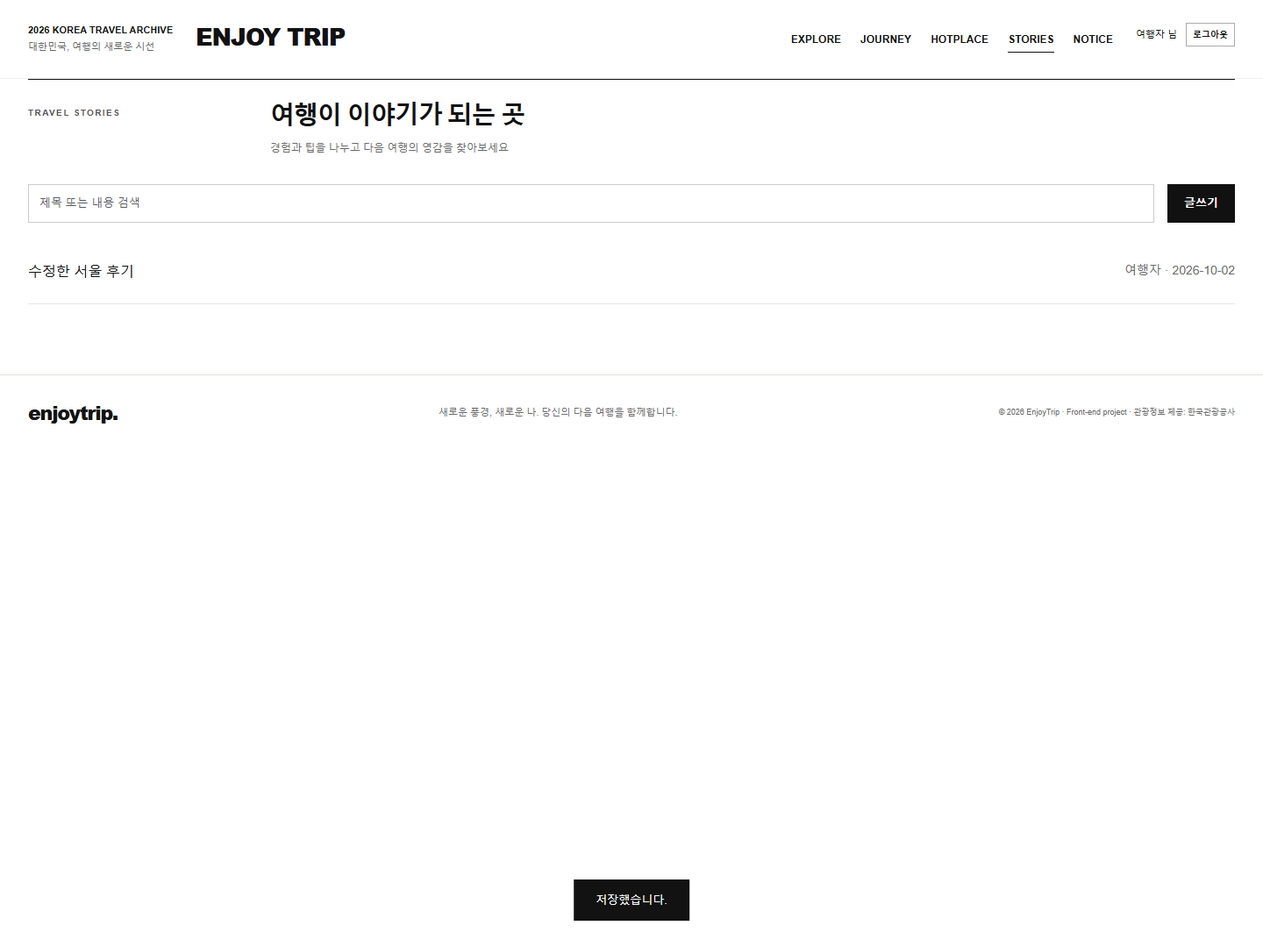
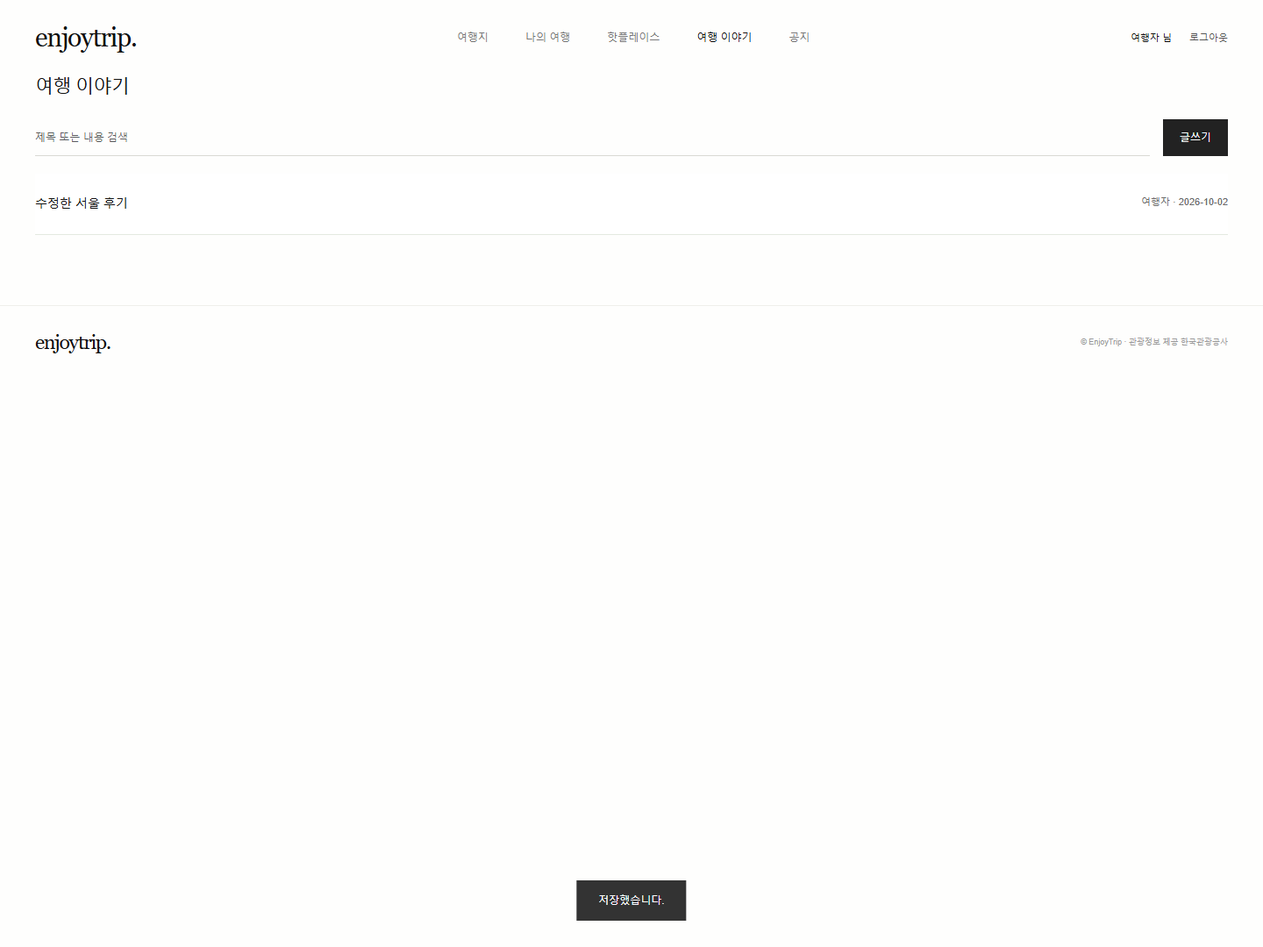
design: simplify travel interface and verify automatic deployment

diff --git a/js/main.js b/js/main.js
@@ -22,7 +22,7 @@ $('#region').innerHTML='<option value="">전국</option>'+regions.map(r=>`<optio
 let districtRequest=0;$('#region').onchange=async()=>{const id=++districtRequest;$('#district').innerHTML='<option value="">전체</option>';if(!$('#region').value)return;try{const result=await tourAPI('ldongCode2',{lDongRegnCd:$('#region').value,lDongListYn:'N',numOfRows:100});if(id!==districtRequest)return;$('#district').innerHTML+=result.items.map(r=>`<option value="${esc(r.code||r.lDongSignguCd)}">${esc(r.name||r.lDongSignguNm)}</option>`).join('')}catch{}};
 
 function typeName(s){return categories.find(c=>String(c[0])===String(s.contenttypeid))?.[1]||'여행지'}
-function renderSpots(){ $('#result-count').textContent=`발견한 장소 ${total}곳`;$('#spots').innerHTML=spots.length?spots.map((s,i)=>`<article class="spot-card">${s.firstimage?`<img class="spot-art" src="${esc(s.firstimage)}" alt="${esc(s.title)}" loading="lazy" referrerpolicy="no-referrer">`:'<div class="spot-art" aria-hidden="true">⌁</div>'}<div class="spot-copy"><span class="badge-type">${typeName(s)}</span><h3>${esc(s.title)}</h3><p>${esc(s.addr1||'주소 정보 없음')}</p><button class="btn btn-outline-secondary" data-detail="${i}">상세보기</button> <button class="btn btn-primary" data-add="${i}">여행에 추가 +</button></div></article>`).join(''):empty('검색 결과가 없습니다. 다른 지역이나 검색어를 선택해 보세요.');$('#more').hidden=!live||spots.length>=total;$('#spots').querySelectorAll('[data-detail]').forEach(b=>b.onclick=()=>detail(spots[b.dataset.detail]));$('#spots').querySelectorAll('[data-add]').forEach(b=>b.onclick=()=>addRoute(spots[b.dataset.add]));if(map)updateMap(spots.map(s=>({...s,x:Number(s.mapx),y:Number(s.mapy),label:s.title,address:s.addr1})));$('#spots').querySelectorAll('img').forEach(img=>img.onerror=()=>{img.removeAttribute('src');img.alt='사진 준비 중'})}
+function renderSpots(){ $('#result-count').textContent=`발견한 장소 ${total}곳`;$('#spots').innerHTML=spots.length?spots.map((s,i)=>`<article class="spot-card">${s.firstimage?`<img class="spot-art" src="${esc(s.firstimage)}" alt="${esc(s.title)}" loading="lazy" referrerpolicy="no-referrer">`:`<div class="spot-index" aria-hidden="true">${String(i+1).padStart(2,'0')}</div>`}<div class="spot-copy"><span class="badge-type">${typeName(s)}</span><h3>${esc(s.title)}</h3><p>${esc(s.addr1||'주소 정보 없음')}</p><button class="btn btn-outline-secondary" data-detail="${i}">상세보기</button> <button class="btn btn-primary" data-add="${i}">여행에 추가</button></div></article>`).join(''):empty('검색 결과가 없습니다. 다른 지역이나 검색어를 선택해 보세요.');$('#more').hidden=!live||spots.length>=total;$('#spots').querySelectorAll('[data-detail]').forEach(b=>b.onclick=()=>detail(spots[b.dataset.detail]));$('#spots').querySelectorAll('[data-add]').forEach(b=>b.onclick=()=>addRoute(spots[b.dataset.add]));if(map)updateMap(spots.map(s=>({...s,x:Number(s.mapx),y:Number(s.mapy),label:s.title,address:s.addr1})));$('#spots').querySelectorAll('img').forEach(img=>img.onerror=()=>{img.removeAttribute('src');img.alt='사진 준비 중'})}
 async function search(append=false,near=null){const id=++request;$('#data-status').textContent='관광정보를 불러오고 있습니다…';const buttons=$('#search').querySelectorAll('button');buttons.forEach(b=>b.disabled=true);$('#more').disabled=true;if(!append)page=1;const region=$('#region').value,category=$('#category').value,keyword=$('#keyword').value.trim();let params={pageNo:page};if(region)params.lDongRegnCd=region;if($('#district').value)params.lDongSignguCd=$('#district').value;if(category)params.contentTypeId=category;let method='areaBasedList2';if(keyword){method='searchKeyword2';params.keyword=keyword}if(near){method='locationBasedList2';params={pageNo:1,mapX:near.lng,mapY:near.lat,radius:2000,...(category?{contentTypeId:category}:{})}}
 try{const result=await tourAPI(method,params);if(id!==request)return;spots=append?[...spots,...result.items]:result.items;total=result.total;live=true;$('#data-status').textContent='한국관광공사 실시간 관광정보'}catch(err){if(id!==request)return;live=false;spots=samples.filter(s=>(!region||s.region===region)&&(!category||s.contenttypeid===category)&&(!keyword||s.title.includes(keyword)||s.addr1.includes(keyword)));if(near){spots=spots.filter(s=>{const dy=(s.mapy-near.lat)*111,dx=(s.mapx-near.lng)*111*Math.cos(near.lat*Math.PI/180);return Math.hypot(dx,dy)<=2})}if($('#district').value)spots=[];total=spots.length;$('#data-status').textContent='샘플 모드 · API 연결 실패, 실제 조회 결과가 아닙니다.'}finally{if(id===request){renderSpots();buttons.forEach(b=>b.disabled=false);$('#more').disabled=false}}}
 $('#search').onsubmit=e=>{e.preventDefault();search()};$('#more').onclick=()=>{page++;search(true)};$('#nearby').onclick=()=>{if(!navigator.geolocation)return toast('이 브라우저는 위치 조회를 지원하지 않습니다.');navigator.geolocation.getCurrentPosition(p=>search(false,{lat:p.coords.latitude,lng:p.coords.longitude}),()=>toast('위치 권한을 허용해 주세요. 지역 검색은 계속 이용할 수 있습니다.'),{timeout:10000})};
@@ -38,8 +38,8 @@ function renderPosts(notice=false){const key=notice?'notices':'posts',target=not
 function postDetail(key,id){const p=read(key).find(p=>p.id===id);if(!p)return;modal(`<span class="eyebrow">${key==='notices'?'NOTICE':'TRAVEL STORY'}</span><h3 class="mt-3">${esc(p.title)}</h3><p>${esc(p.author)} · ${esc(p.date)}</p><div style="white-space:pre-wrap">${esc(p.body)}</div>${p.owner===current()?.id?'<div class="actions"><button id="edit-post" class="btn btn-primary">수정</button><button id="delete-post" class="btn btn-outline-danger">삭제</button></div>':''}`);if($('#edit-post')){$('#edit-post').onclick=()=>editPost(key,p);$('#delete-post').onclick=()=>{if(confirm('게시글을 삭제할까요?')){save(key,read(key).filter(x=>x.id!==id));$('#modal').close();renderPosts(key==='notices');toast('삭제했습니다.')}}}}
 function editPost(key,p=null){if(!requireUser())return;modal(`<h3>${key==='notices'?'공지사항':'여행 이야기'} ${p?'수정':'등록'}</h3>${key==='notices'?'<p>학습용으로 로그인한 회원 누구나 자신이 작성한 공지를 관리할 수 있습니다.</p>':''}<form id="post-form">${fields('title','제목','text',p?.title||'','maxlength="100"')}<label>내용<textarea name="body" class="form-control" required maxlength="5000" rows="8">${esc(p?.body||'')}</textarea></label><button class="btn btn-primary">저장하기</button></form>`);$('#post-form').onsubmit=e=>{e.preventDefault();try{const f=Object.fromEntries(new FormData(e.target));if(!f.title.trim()||!f.body.trim())throw Error('제목과 내용을 입력하세요.');const rows=read(key),post={...f,id:p?.id||crypto.randomUUID(),owner:current().id,author:current().name,date:new Date().toLocaleDateString('sv-SE')};save(key,p?rows.map(r=>r.id===p.id?post:r):[post,...rows]);$('#modal').close();renderPosts(key==='notices');toast('저장했습니다.')}catch(err){toast(err.message)}}}
 $('#post-add').onclick=()=>editPost('posts');$('#notice-add').onclick=()=>editPost('notices');$('#board-search').oninput=()=>renderPosts();
-const headings={explore:['EXPLORE KOREA','어디로 떠나볼까요?','지역과 취향으로 찾아보는 나의 다음 여행지'],plan:['MY JOURNEY','나만의 여행을 그려보세요','발견한 장소를 연결하고 설레는 하루를 계획하세요'],hotplace:['HIDDEN GEMS','우리만 아는 특별한 장소','여행자들이 직접 소개하는 숨은 보석'],board:['TRAVEL STORIES','여행이 이야기가 되는 곳','경험과 팁을 나누고 다음 여행의 영감을 찾아보세요'],notice:['NOTICE','EnjoyTrip 소식','새로운 여행 소식과 이용 안내'],profile:['MY ACCOUNT','내 정보 관리','나의 여행자 프로필을 확인하고 수정하세요']};
+const headings={explore:['EXPLORE KOREA','여행지','지역과 취향으로 찾아보는 나의 다음 여행지'],plan:['MY JOURNEY','나의 여행','발견한 장소를 연결하고 설레는 하루를 계획하세요'],hotplace:['HIDDEN GEMS','핫플레이스','여행자들이 직접 소개하는 숨은 보석'],board:['TRAVEL STORIES','여행 이야기','경험과 팁을 나누고 다음 여행의 영감을 찾아보세요'],notice:['NOTICE','공지사항','새로운 여행 소식과 이용 안내'],profile:['MY ACCOUNT','내 정보','나의 여행자 프로필을 확인하고 수정하세요']};
 function navigate(){const name=location.hash.slice(1) in headings?location.hash.slice(1):'explore';document.querySelectorAll('.view').forEach(v=>v.hidden=v.id!==name);document.querySelectorAll('nav a').forEach(a=>a.classList.toggle('active',a.hash==='#'+name));['#section-tag','#section-title','#section-desc'].forEach((s,i)=>$(s).textContent=headings[name][i]);$('.hero').hidden=name!=='explore';if(name==='plan'){renderRoute();renderPlans()}if(name==='hotplace')renderHot();if(name==='board')renderPosts();if(name==='notice')renderPosts(true);if(name==='profile')profile();if(name==='explore'&&map)setTimeout(()=>{map.relayout();renderSpots()},0)}
 window.onhashchange=navigate;account();navigate();search();
-loadKakaoMap().then(()=>{initMap('map');$('#map-status').textContent='카카오 지도 · 장소 선택 시 위치 확인';renderSpots()}).catch(()=>{$('#map').innerHTML='<div class="fallback"><span class="eyebrow">TRAVEL MAP</span><h3 class="mt-3">지도 연결을 기다리고 있어요</h3><p>카카오 API 키와 허용 도메인을 확인하세요.<br>장소 상세의 ‘카카오맵에서 보기’는 이용할 수 있습니다.</p></div>';$('#map-status').textContent='지도 SDK 연결 실패 · 목록과 여행계획은 이용 가능'});
+loadKakaoMap().then(()=>{initMap('map');$('#map-status').textContent='카카오 지도 · 장소 선택 시 위치 확인';renderSpots()}).catch(()=>{$('#map').innerHTML='<div class="fallback"><h3>지도를 연결해 주세요</h3><p>카카오 지도 키와 도메인 설정이 필요합니다.</p></div>';$('#map-status').textContent='장소 상세에서 카카오맵을 열 수 있습니다.'});
 window.addEventListener('unhandledrejection',e=>{toast(e.reason?.message||'요청 처리 중 문제가 발생했습니다.');e.preventDefault()});

diff --git a/css/style.css b/css/style.css
@@ -2,3 +2,5 @@
 /* Editorial direction inspired by the KUAD 2026 reference. */
 :root{--ink:#121212;--green:#111;--paper:#fff;--muted:#696969}body{background:#fff;color:#111;font-family:Arial,'Malgun Gothic',sans-serif}header{max-width:none;padding:25px 32px;gap:26px;min-height:90px;border-bottom:1px solid #eee;align-items:flex-start}.site-caption{font-size:11px;font-weight:700;line-height:1.7;white-space:nowrap}.site-caption span{font-weight:400;color:#666}.brand{font-size:27px;letter-spacing:-1.1px;line-height:1.2}.brand span{color:#111}nav{margin-left:auto;margin-right:0;gap:22px;font-size:12px;font-weight:700;padding-top:6px}nav a{padding-bottom:5px}nav a.active{border-bottom:1px solid #111}#account{padding-top:1px;font-size:11px}#account .btn{padding:5px 7px;font-size:10px}main{max-width:none;padding:0 32px 80px}.hero{background:none;display:grid;grid-template-columns:240px 1fr;gap:36px;border-radius:0;min-height:0;margin:40px 0 75px;overflow:visible}.hero-copy{display:flex;flex-direction:column;justify-content:flex-end}.hero>div:first-child{padding:0}.eyebrow{color:#555;font-size:10px;letter-spacing:1.4px}.hero h1{font-size:26px;font-weight:700;letter-spacing:-1px;line-height:1.4;margin:20px 0}.hero p{font-size:12px;line-height:2;color:#444}.hero-link{display:flex;justify-content:space-between;border-top:1px solid #111;padding-top:14px;margin-top:25px;font-size:11px;font-weight:700}.hero-link span{font-size:20px}.hero-visual{position:relative;height:min(65vw,640px);min-height:400px;overflow:hidden;background:#a3afb3}.hero-visual>img{width:100%;height:100%;object-fit:cover}.visual-title{position:absolute;top:32px;left:32px;color:#fff;font-size:clamp(38px,6.2vw,100px);font-weight:700;line-height:.94;letter-spacing:-4px}.visual-caption{position:absolute;bottom:22px;left:28px;right:28px;display:flex;justify-content:space-between;font-size:9px;letter-spacing:1.5px;color:#fff}.section-heading{display:grid;grid-template-columns:240px 1fr;gap:0 36px;margin-bottom:30px;border-top:1px solid #111;padding-top:24px}.section-heading .eyebrow{grid-row:1/3;padding-top:6px}h2{font-size:28px;font-weight:600;margin:0 0 10px;letter-spacing:-1px}.section-heading p{margin:0;font-size:12px}.search-bar{padding:20px 0;background:none;border:0;border-bottom:1px solid #ddd;border-radius:0;gap:18px}.form-control,.form-select{border-radius:0;border-color:#ccc;background-color:white}.btn{border-radius:0}.btn-primary{background:#111;border-color:#111}.btn-primary:hover{background:#444;border-color:#444}.btn-outline-secondary{border-color:#aaa;color:#111}.explore-layout{grid-template-columns:40% 1fr;gap:30px}.spot-card{border:0;border-bottom:1px solid #ddd;border-radius:0;padding:18px 0;background:none}.spot-art{border-radius:0;background:linear-gradient(145deg,#d5d9d8,#74868a);color:#fff}.badge-type{border-radius:0;background:#f0f0f0;color:#333}.map-wrap{border-radius:0;border:1px solid #ddd}.map-title{padding:16px}.map-title span{font-size:10px}#map{background-color:#e5e8e5;background-size:180px 160px}#map .fallback{border-radius:0;padding:26px}#map .fallback h3{font-size:18px}.panel,.tile,.empty{border-radius:0}.tile{border:0;border-top:1px solid #111;padding:20px 0}.tile img{border-radius:0}.tile-grid{gap:28px}#route-list li{border-radius:0}.board-row{padding:24px 0}.board-row strong{font-weight:500}dialog{border-radius:0}#toast{border-radius:0}footer{text-align:left;display:flex;flex-wrap:wrap;align-items:center;justify-content:space-between;gap:20px;padding:30px 32px}footer p{margin:0;font-size:11px}footer small{font-size:9px}footer .brand{font-size:22px}.spot-list{max-height:650px}.result-line{font-size:11px}@media(min-width:1600px){main{max-width:1600px;margin:auto}.hero{grid-template-columns:280px 1fr}.section-heading{grid-template-columns:280px 1fr}}@media(max-width:1100px){header{flex-wrap:wrap;gap:18px}.site-caption{display:none}nav{gap:16px}.hero{grid-template-columns:190px 1fr;gap:24px}.section-heading{grid-template-columns:190px 1fr;gap:0 24px}.hero-visual{min-height:350px}.visual-title{letter-spacing:-2px}.search-bar{flex-wrap:wrap}.search-bar label{flex:1 1 35%}}@media(max-width:700px){header{padding:20px;align-items:center}.brand{font-size:25px}#account{margin-left:auto}nav{order:3;width:100%;margin:4px 0 0;justify-content:space-between;gap:15px;font-size:10px;overflow:auto}main{padding:0 20px 50px}.hero{display:flex;flex-direction:column;gap:22px;margin:25px 0 45px}.hero-visual{order:-1;height:430px;min-height:0}.visual-title{font-size:55px;top:22px;left:20px;letter-spacing:-3px}.hero-copy{display:grid;grid-template-columns:1fr 1fr;gap:0 20px}.hero-copy .eyebrow{grid-column:1/3}.hero h1{font-size:24px;margin:15px 0}.hero p{font-size:10px;margin:15px 0}.hero-link{grid-column:1/3;margin-top:5px}.section-heading{display:block;padding-top:20px}.section-heading .eyebrow{display:block;margin-bottom:15px}h2{font-size:24px}.explore-layout{grid-template-columns:1fr}.map-wrap{order:-1;position:static}.spot-list{max-height:none}.map-title span{max-width:50%;text-align:right}.search-bar{gap:12px}.search-bar label{flex-basis:40%}.visual-caption{left:20px;right:20px;font-size:8px}.tile-grid{grid-template-columns:1fr}footer{padding:25px 20px;display:block}footer p{margin:15px 0}#map{height:300px}.hero-visual>img{object-position:45% center}}
 @media(max-width:700px){.visual-title{font-size:clamp(28px,8.5vw,55px);letter-spacing:-1.5px}}
+/* Quiet visual hierarchy: only content and useful controls remain. */
+body{-webkit-font-smoothing:antialiased;background:#fefefd}header{padding:25px 40px;align-items:center;min-height:82px;border-bottom:0;gap:32px}.brand{font-family:Georgia,'Times New Roman',serif;font-weight:400;font-size:30px;letter-spacing:-1.3px}nav{margin:auto;gap:42px;font-size:12px;font-weight:400;padding-top:0}nav a{border:0!important;padding-bottom:0}nav a.active{font-weight:500;color:#111}nav a:not(.active){color:#777}#account .btn{background:none;color:#555;border:0;padding:8px 0;font-weight:400;font-size:11px}#account{gap:20px}main{padding:0 40px 80px;max-width:1500px}.hero{grid-template-columns:220px 1fr;gap:45px;margin:20px 0 85px}.hero-visual{height:min(62vw,620px);min-height:340px}.hero-visual img{filter:saturate(.65)}.hero-copy{padding-bottom:3px!important}.hero h1{font-size:20px;letter-spacing:-.7px;font-weight:400;margin:0 0 15px}.hero p{font-size:12px;color:#777;line-height:1.9;margin:0}.hero-link{border:0;font-size:12px;font-weight:400;justify-content:flex-start;gap:35px;margin-top:25px;padding:0}.hero-link span{font-size:16px}.section-heading{display:block;border:0;padding:0;margin-bottom:25px}.section-heading .eyebrow,.section-heading p{display:none}h2{font-size:21px;font-weight:400;letter-spacing:-.6px;margin:0}.search-bar{border-top:1px solid #e9e9e5;border-bottom:1px solid #e9e9e5;gap:22px;padding:24px 0}label{font-weight:400;color:#777;font-size:11px}.form-control,.form-select{border:0;border-bottom:1px solid #d9d9d4;box-shadow:none!important;background-color:transparent;padding-left:0;font-size:12px}.form-select{padding-right:25px}.btn{font-size:12px;font-weight:400;padding:10px 18px}.btn-primary{background:#222;border-color:#222}.btn-outline-secondary{border-color:#deded9;background:transparent;color:#444}.result-line{font-size:11px;color:#777;margin:24px 0}.result-line strong{font-weight:400}.explore-layout{grid-template-columns:44% 1fr;gap:65px}.spot-card{padding:22px 0;border-bottom:1px solid #efefeb;gap:22px}.spot-index{width:32px;min-width:32px;padding-top:3px;color:#a4a49e;font-size:11px}.spot-art{width:85px;min-width:85px;height:90px}.badge-type{background:none;padding:0;font-size:10px;color:#999}.spot-card h3{font-size:16px;letter-spacing:-.3px;font-weight:400;margin:8px 0}.spot-card p{font-size:11px;color:#999}.spot-card .btn{border:0;padding:3px 0;background:none;color:#666;font-weight:400;font-size:10px}.spot-card .btn-primary{margin-left:18px;color:#111}.map-wrap{border:0;background:#f4f4f0}.map-title{padding:17px 20px;background:#fefefd}.map-title b{font-weight:400;font-size:12px}#map{background:#f1f2ee;background-image:none}#map .fallback{background:none;padding:25px}#map .fallback h3{font-weight:400;font-size:16px;margin-bottom:12px}#map .fallback p{font-size:11px;margin:0}#map-status{font-size:10px;padding:12px 18px;color:#92928b}.panel{border:0;background:transparent;padding:0}.panel>p{font-size:12px}.empty{background:transparent;font-size:12px;padding:35px 10px}.tile{border-top:1px solid #deded9}.tile h3{font-weight:400;font-size:18px}.tile p{font-size:12px}.board-row strong{font-weight:400;font-size:14px}.board-row small{font-size:11px}footer{border-top:1px solid #efefeb;padding:28px 40px}footer .brand{font-size:23px}footer small{color:#999}dialog{padding:35px;box-shadow:0 15px 80px #0002}dialog h3{font-size:21px;font-weight:400}.narrow{max-width:460px}h3{font-weight:400}#toast{font-size:12px;background:#333}.spot-list{max-height:600px}@media(max-width:900px){header{gap:20px}nav{gap:22px}.hero{grid-template-columns:170px 1fr;gap:25px}.explore-layout{grid-template-columns:1fr;gap:25px}.map-wrap{order:-1;position:static}#map{height:290px}.spot-list{max-height:none}.hero-visual{min-height:300px}}@media(max-width:700px){header{padding:20px 22px;min-height:0;flex-wrap:wrap}.brand{font-size:28px}nav{width:100%;justify-content:space-between;margin:10px 0 0;order:3;gap:15px;font-size:11px}#account{margin-left:auto;padding:0}main{padding:0 22px 55px}.hero{display:flex;margin:25px 0 55px;gap:22px}.hero-visual{height:390px;min-height:0}.hero-copy{display:block}.hero h1{font-size:19px;margin-bottom:12px}.hero p{font-size:11px}.hero-link{margin-top:20px}h2{font-size:20px}.search-bar{gap:16px;padding:20px 0}.result-line{gap:10px}.spot-card{gap:18px}.map-title{padding:15px 0}.map-wrap{background:transparent}footer{padding:24px 22px;display:flex}.form-grid{gap:20px}dialog{padding:28px}.section-heading{margin-bottom:20px}}

diff --git a/index.html b/index.html
@@ -1,12 +1,12 @@
 <!doctype html>
 <html lang="ko"><head><meta charset="UTF-8"><meta name="viewport" content="width=device-width, initial-scale=1"><title>EnjoyTrip · 나를 위한 여행의 시작</title><link href="https://cdn.jsdelivr.net/npm/bootstrap@5.3.3/dist/css/bootstrap.min.css" rel="stylesheet"><link rel="stylesheet" href="css/style.css"></head>
-<body><header><div class="site-caption">2026 KOREA TRAVEL ARCHIVE<br><span>대한민국, 여행의 새로운 시선</span></div><a class="brand" href="#explore">ENJOY TRIP</a><nav aria-label="메인 메뉴"><a href="#explore">EXPLORE</a><a href="#plan">JOURNEY</a><a href="#hotplace">HOTPLACE</a><a href="#board">STORIES</a><a href="#notice">NOTICE</a></nav><div id="account"></div></header>
-<main><section class="hero"><div class="hero-copy"><span class="eyebrow">01 / OUTSIDE THE EVERYDAY</span><h1>낯선 풍경에서<br>발견하는 나.</h1><p>여행은 익숙한 시선에서 벗어나는 일.<br>늘 지나쳤던 골목과 아직 만나지 못한 바다,<br>그곳에서 나만의 이야기를 시작합니다.</p><a class="hero-link" href="#explore">대한민국 여행지 탐색 <span>↗</span></a></div><div class="hero-visual"><img src="resources/coast.svg" alt="산과 바다가 만나는 해안 풍경 일러스트"><div class="visual-caption"><span>LANDSCAPE NO. 01</span><span>THE COAST OF KOREA</span></div><span class="visual-title">A NEW<br>PERSPECTIVE.</span></div></section>
+<body><header><a class="brand" href="#explore">enjoytrip.</a><nav aria-label="메인 메뉴"><a href="#explore">여행지</a><a href="#plan">나의 여행</a><a href="#hotplace">핫플레이스</a><a href="#board">여행 이야기</a><a href="#notice">공지</a></nav><div id="account"></div></header>
+<main><section class="hero"><div class="hero-copy"><h1>어디든, 나답게.</h1><p>마음이 머무는 곳을 발견하고<br>나만의 여행을 기록하세요.</p><a class="hero-link" href="#explore">여행지 찾기 <span>↗</span></a></div><div class="hero-visual"><img src="resources/coast.svg" alt="산과 바다가 만나는 해안 풍경 일러스트"></div></section>
 <div class="section-heading"><span id="section-tag" class="eyebrow">EXPLORE KOREA</span><h2 id="section-title">어디로 떠나볼까요?</h2><p id="section-desc">지역과 취향으로 찾아보는 나의 다음 여행지</p></div>
-<section id="explore" class="view"><form id="search" class="search-bar"><label>지역<select id="region" class="form-select"></select></label><label>시·군·구<select id="district" class="form-select"><option value="">전체</option></select></label><label>여행 유형<select id="category" class="form-select"></select></label><label>장소 이름<input id="keyword" class="form-control" placeholder="가고 싶은 장소를 검색하세요"></label><button class="btn btn-primary">검색하기</button><button type="button" class="btn btn-outline-secondary" id="nearby">내 주변</button></form><div class="result-line"><strong id="result-count"></strong><span id="data-status" role="status"></span></div><div class="explore-layout"><div id="spots" class="spot-list"></div><div class="map-wrap"><div class="map-title"><b>여행 지도</b><span>마커를 눌러 장소를 확인하세요</span></div><div id="map"></div><p id="map-status" class="small"></p></div></div><button id="more" class="btn btn-outline-secondary mt-3" hidden>더 보기</button></section>
+<section id="explore" class="view"><form id="search" class="search-bar"><label>지역<select id="region" class="form-select"></select></label><label>시·군·구<select id="district" class="form-select"><option value="">전체</option></select></label><label>여행 유형<select id="category" class="form-select"></select></label><label>장소 이름<input id="keyword" class="form-control" placeholder="가고 싶은 장소를 검색하세요"></label><button class="btn btn-primary">검색하기</button><button type="button" class="btn btn-outline-secondary" id="nearby">내 주변</button></form><div class="result-line"><strong id="result-count"></strong><span id="data-status" role="status"></span></div><div class="explore-layout"><div id="spots" class="spot-list"></div><div class="map-wrap"><div class="map-title"><b>여행 지도</b></div><div id="map"></div><p id="map-status" class="small"></p></div></div><button id="more" class="btn btn-outline-secondary mt-3" hidden>더 보기</button></section>
 <section id="plan" class="view" hidden><div class="panel"><p>장소 카드의 ‘여행에 추가’를 눌러 경로를 만들어 보세요. 드래그 또는 화살표로 순서를 바꿀 수 있습니다.</p><form id="plan-form"><div class="form-grid"><label>여행 이름<input class="form-control" name="title" required maxlength="80" placeholder="나의 설레는 여행"></label><label>출발일<input class="form-control" name="date" type="date" required></label><label>여행경비 (원)<input class="form-control" name="budget" type="number" min="0" value="0" required></label></div><label>상세 계획<textarea class="form-control" name="memo" maxlength="2000" placeholder="일정별 시간, 이동 방법과 준비물을 적어보세요"></textarea></label><ol id="route-list"></ol><button class="btn btn-primary">여행계획 저장</button></form></div><h3 class="mt-4">저장한 여행</h3><div id="saved-plans" class="tile-grid"></div></section>
 <section id="hotplace" class="view" hidden><button class="btn btn-primary mb-4" id="hot-add">나만의 Hotplace 등록 +</button><div id="hot-list" class="tile-grid"></div></section>
 <section id="board" class="view" hidden><div class="board-toolbar"><input id="board-search" class="form-control" placeholder="제목 또는 내용 검색" aria-label="게시글 검색"><button class="btn btn-primary" id="post-add">글쓰기</button></div><div id="post-list"></div></section>
 <section id="notice" class="view" hidden><button class="btn btn-primary mb-3" id="notice-add">공지 등록</button><div id="notice-list"></div></section>
 <section id="profile" class="view" hidden><div id="profile-content" class="panel narrow"></div></section>
-</main><footer><a class="brand" href="#explore">enjoy<span>trip.</span></a><p>새로운 풍경, 새로운 나. 당신의 다음 여행을 함께합니다.</p><small>© 2026 EnjoyTrip · Front-end project · 관광정보 제공: 한국관광공사</small></footer><dialog id="modal"><button id="modal-close" type="button" class="close-button" aria-label="닫기">×</button><div id="modal-content"></div></dialog><div id="toast" role="status" aria-live="polite"></div><script type="module" src="js/main.js"></script></body></html>
+</main><footer><a class="brand" href="#explore">enjoytrip.</a><small>© EnjoyTrip · 관광정보 제공 한국관광공사</small></footer><dialog id="modal"><button id="modal-close" type="button" class="close-button" aria-label="닫기">×</button><div id="modal-content"></div></dialog><div id="toast" role="status" aria-live="polite"></div><script type="module" src="js/main.js"></script></body></html>

diff --git a/README.md b/README.md
@@ -74,4 +74,6 @@ F106 뉴스 크롤링/DB 저장과 선택 예시 F111~F114(날씨·사진 추천
 `main`은 초기 구현을 보존하고 `design/kuad-reference`에서 디자인을 변경했습니다. [KUAD 2026](https://kuadarchive.com/2026/)의 흰 배경, 검정 타이포그래피, 왼쪽 설명과 오른쪽 대형 비주얼, 넓은 여백을 참고했습니다. 여행 기능과 어울리도록 해안 일러스트를 직접 제작했고 레퍼런스의 사진·문구는 복사하지 않았습니다. 메뉴와 검색·회원·여행·커뮤니티 기능은 그대로 이용할 수 있습니다.
 ## CI/CD
 
-GitHub Actions에서 push/PR마다 문법·파일 참조·배포 빌드를 확인합니다. Cloudflare Pages를 Git 연결하면 push 후 동일한 검증을 거쳐 자동 배포합니다. 환경과 키 설정은 [배포 안내](docs/deployment.md)를 참고하세요. Cloudflare 계정 연결이 완료되어야 실제 자동 배포가 동작합니다.
+GitHub Actions에서 push/PR마다 문법·파일 참조·배포 빌드를 확인합니다. Cloudflare Pages를 Git 연결하면 push 후 동일한 검증을 거쳐 자동 배포합니다. 환경과 키 설정은 [배포 안내](docs/deployment.md)를 참고하세요. Cloudflare 연결과 첫 배포가 완료되었습니다. 현재 운영 주소는 https://enjoytrip.pages.dev 이며 디자인 브랜치에 push하면 자동 배포됩니다.
+
+디자인은 Fafter와 KUAD의 절제된 메뉴·작은 설명·넓은 이미지 구성을 참고해 큰 영문 문구, 장식 라벨, 반복 설명을 제거했습니다.

diff --git a/docs/deployment.md b/docs/deployment.md
@@ -35,3 +35,15 @@ npm run build
 ## 검증 범위
 
 CI는 JavaScript 문법, ES 모듈 경로, HTML 에셋 경로, 배포 진입 파일을 확인합니다. 외부 관광 API와 카카오 지도 사용 권한은 CI에서 확인하지 않습니다. 사용자 기능은 `docs/verification.md`에 기록한 브라우저 검증 결과를 참고하세요.
+
+## 운영 상태
+
+Cloudflare Git 연결과 이메일 인증을 완료했고 첫 배포가 성공했습니다.
+
+- 운영 주소: https://enjoytrip.pages.dev
+- 운영 브랜치: `design/kuad-reference`
+- Node: 22
+- 빌드: `npm run build`
+- 출력: `dist`
+- 현재 API 키 없음: 샘플 모드
+- GitHub CI 첫 실행 성공: https://github.com/jayyeong/enjoytrip/actions/runs/36952599113
